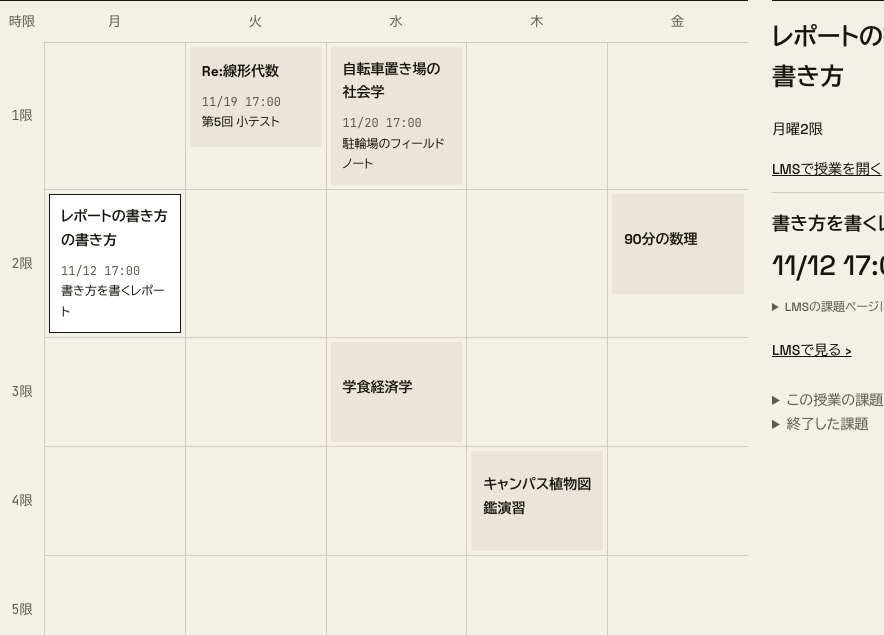
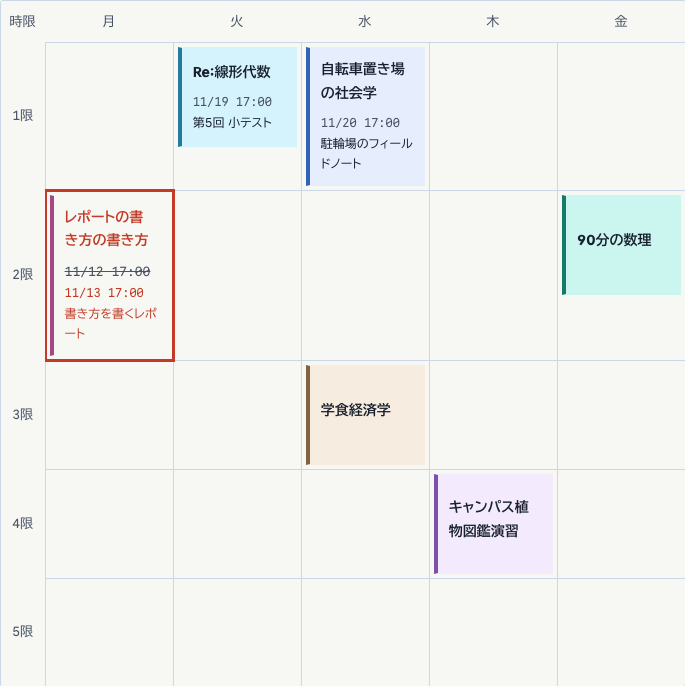
feat(web): show the same changed deadline in student and supporter images

diff --git a/packages/web/src/features/landing/page.tsx b/packages/web/src/features/landing/page.tsx
@@ -86,10 +86,10 @@ export function LandingPage() {
       </section>
 
       <section className="chapter people-section" id="people" aria-labelledby="people-title">
-        <Reveal><div className="section-heading"><span className="eyebrow" lang="en">Who it is for</span><h2 id="people-title">使う人</h2></div></Reveal>
+        <Reveal><div className="section-heading"><span className="chapter-number">02</span><h2 id="people-title">使う人</h2></div></Reveal>
         <div className="product-grid">
-          <Reveal><h3>学生</h3><Screenshot name="student" alt="学生の時間割" width={884} height={635} caption="締切の変更が、いつもの時間割に出ます。" /></Reveal>
-          <Reveal order={1}><h3>支援担当（カウンセラーなど）</h3><Screenshot name="session" alt="支援担当の面談画面" width={1072} height={1005} caption="前回の面談から変わった課題を確かめられます。" /></Reveal>
+          <Reveal><h3>学生</h3><Screenshot name="student" alt="学生の時間割" width={685} height={686} caption="締切の変更が時間割に出ます。" /></Reveal>
+          <Reveal order={1}><h3>支援担当（カウンセラーなど）</h3><Screenshot name="session" alt="支援担当の面談画面" width={768} height={312} caption="前回の面談から変わった課題を確かめられます。" /></Reveal>
         </div>
         <a className="next-chapter" href="#try">体験する <span aria-hidden="true">↓</span></a>
       </section>
